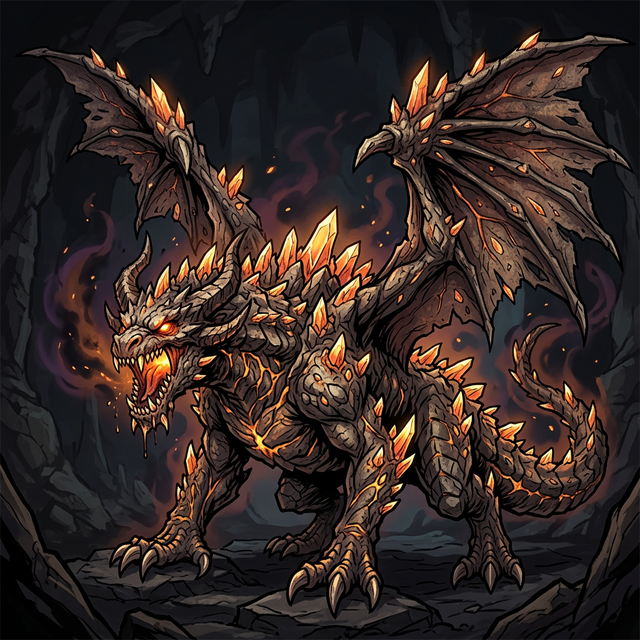
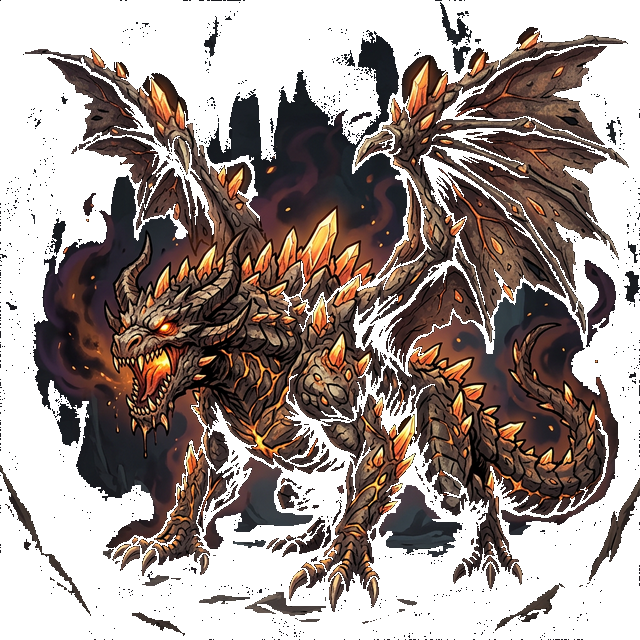
cave_dragonforest_guardianの背景透過処理＋imageパス設定

diff --git a/src/game/EnemySystem.js b/src/game/EnemySystem.js
@@ -94,7 +94,7 @@ export const ENEMY_DEFINITIONS = {
         id: 'forest_guardian',
         name: '森のガーディアン',
         emoji: '🌳',
-        image: null,
+        image: './characters/forest_guardian.png',
         baseHp: 55,
         isBoss: true,
         patterns: [
@@ -161,7 +161,7 @@ export const ENEMY_DEFINITIONS = {
         id: 'cave_dragon',
         name: '洞窟ドラゴン',
         emoji: '🐲',
-        image: null,
+        image: './characters/cave_dragon.png',
         baseHp: 80,
         isBoss: true,
         patterns: [
